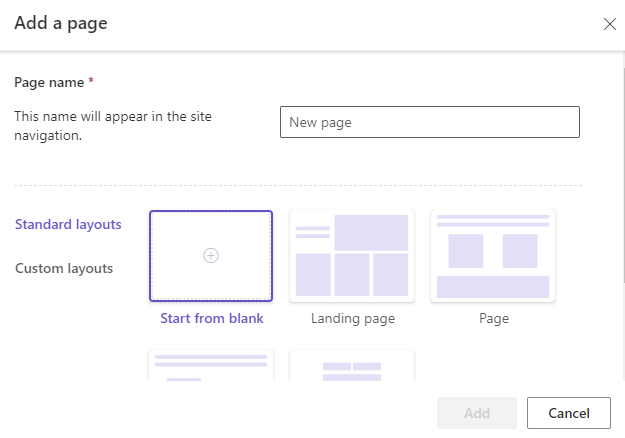
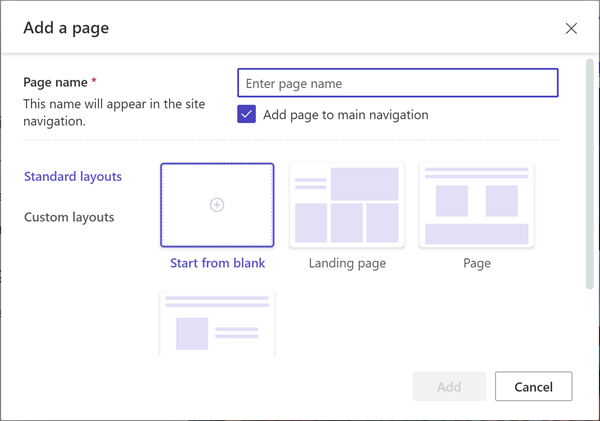
2857241

diff --git a/power-pages-docs/getting-started/first-page.md b/power-pages-docs/getting-started/first-page.md
@@ -4,7 +4,7 @@ description: Learn how to create Power Pages sites.
 author: prvaidy
 ms.topic: conceptual
 ms.custom: 
-ms.date: 06/10/2022
+ms.date: 08/05/2022
 ms.subservice:
 ms.author: ndoelman 
 ms.reviewer: 
@@ -25,15 +25,11 @@ The **Pages** workspace enables you to design and build webpages with in-context
 
 1. Open the [design studio](use-design-studio.md) to edit the content and components of your Power Pages site.
 
-1. On the left pane, select **Pages**, and then select one of the plus signs (**+**).
+1. On the left pane, select **Pages**, and then select **+ Page**.
 
-    - Selecting the **Add a page** icon in the **Main navigation** section adds a new page, which will also add a menu item to the default navigation of the site.
+    :::image type="content" source="media/first-page/add-new-page.png" alt-text="Add a new page within the design studio.":::
 
-        :::image type="content" source="media/first-page/add-page-navigation.png" alt-text="Adding a page within the design studio.":::
-
-    - Selecting the **Add a page** icon in the **Other pages** section adds a new page, but won't add a link to the default navigation of the site.
-
-1. Choose a page from standard layouts, or choose a custom layout.
+1. Choose a page from standard layouts, or choose a custom layout. By default, the new page will appear in the main navigation, but you can unselect this option.
 
     :::image type="content" source="media/first-page/add-page.png" alt-text="Adding a page menu within the design studio.":::
 
